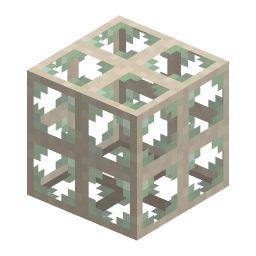
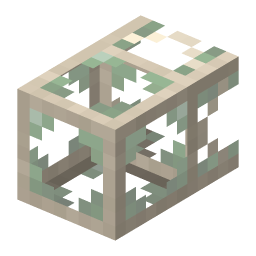
Render pipes as core + arm instead of a tiled cube
Pipes have no item model; their inventory icon is assembled from the _core and
_arm block models. The renderer was only drawing the core, and its declared
texture_size [8,8] against 16-space UVs tiled the core texture 2x2. Add a pipe
special case that combines the core (8^3, texture mapped once) with one connection
arm, treats the UV space as 16 so the core maps once, and yaws the model 90 degrees
so the arm points out the back rather than the left. Applies to transport, logistics,
chassis, and fluid pipes.

diff --git a/tools/render_blocks.py b/tools/render_blocks.py
@@ -216,6 +216,48 @@ def resolve_texture(var, textures):
     return var  # a "ns:path" texture id, or None
 
 
+PIPE_ARM_YAW = 90  # rotate pipes so the single connection arm points out the back, not the left
+
+
+def is_pipe_core(ref):
+    return ref.endswith("_core") and ("/pipe/" in ref or "/fluid/" in ref)
+
+
+def build_pipe_model(core_ref, assets):
+    """Pipe inventory icon: the 8^3 core plus one connection arm out the back, combined.
+
+    The core/arm block models declare texture_size [8,8] but author their UVs in 16-space
+    (so the core maps its texture once and the arm uses bottom-half strips). We resolve each
+    model's #texture to an absolute id, merge the elements, and force texture_size [16,16] so
+    the UVs map as intended instead of tiling."""
+    core = load_chain(core_ref, assets)
+    arm = load_chain(core_ref[:-len("_core")] + "_arm", assets)
+    elements = []
+    for m in (core, arm):
+        tex = m.get("textures", {})
+        for el in m.get("elements", []):
+            faces = {}
+            for d, f in el.get("faces", {}).items():
+                nf = dict(f)
+                nf["texture"] = resolve_texture(f.get("texture", "#" + d), tex) or f.get("texture")
+                faces[d] = nf
+            ne = dict(el); ne["faces"] = faces
+            elements.append(ne)
+    display = {k: dict(v) for k, v in core.get("display", {}).items()}
+    gui = dict(display.get("gui", {}))
+    rot = list(gui.get("rotation", [30, -50, 0]))
+    rot[1] += PIPE_ARM_YAW
+    gui["rotation"] = rot
+    display["gui"] = gui
+    return {"textures": {}, "elements": elements,
+            "display": display, "texture_size": [16, 16]}
+
+
+def resolve_render_model(ref, assets):
+    """The model to actually render for a resolved ref (pipes get the core+arm special case)."""
+    return build_pipe_model(ref, assets) if is_pipe_core(ref) else load_chain(ref, assets)
+
+
 # ------------------------------------------------------------------ geometry
 
 def face_quad(el, d, uv):
@@ -426,7 +468,7 @@ def batch(assets, out_dir, wiki_dir, size, ss, dry):
             failed.append((item_id, "no model")); continue
         try:
             if not dry:
-                px = render(load_chain(ref, assets), assets, size, ss)
+                px = render(resolve_render_model(ref, assets), assets, size, ss)
                 encode_png(os.path.join(out_dir, f"Grid {wiki_name}.png"), size, size, px)
             done.append(wiki_name)
             print(f"  {'(dry) ' if dry else ''}Grid {wiki_name}.png   <- {ref}")
@@ -465,7 +507,7 @@ def main():
         return
     if not args.model or not args.out:
         ap.error("single-model mode needs --model and --out (or use --batch)")
-    model = load_chain(args.model, args.assets)
+    model = resolve_render_model(args.model, args.assets)
     if not model.get("elements"):
         sys.exit(f"no geometry resolved for {args.model}")
     if args.rot:
